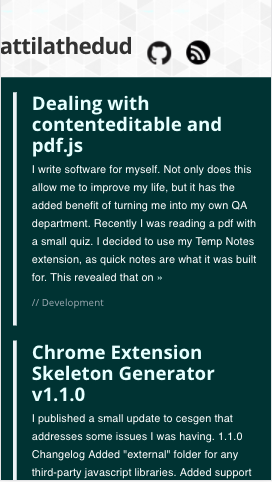
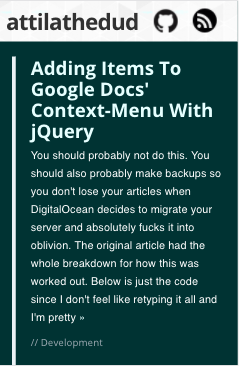
Updating some of the mobile css

diff --git a/theme/assets/css/screen.min.css b/theme/assets/css/screen.min.css
@@ -1,1 +1,1 @@
-article,aside,details,figcaption,figure,footer,header,hr,main,section,summary{display:block}hr,img,legend{border:0}body,html{height:100%;max-height:100%}body,dl,h1,h2,h3,h4,h5,h6,ol,p,ul{text-rendering:geometricPrecision}dl dt,svg:not(:root){overflow:hidden}dl dd,dl dt{margin-bottom:1em}body,li li{margin:0}a:hover,code,tt{color:#111}dl,ol,p,pre,ul{margin:0 0 1.75em}hr,legend,pre code,pre tt,td,th{padding:0}blockquote small,kbd{display:inline-block}pre,table{width:100%}a,table{background-color:transparent}mark,table th{color:#000}pre,textarea{overflow:auto}.inner,.main-header,.site-wrapper,sub,sup{position:relative}html{font-family:sans-serif;-ms-text-size-adjust:100%;-webkit-text-size-adjust:100%}audio,canvas,progress,video{display:inline-block;vertical-align:baseline}audio:not([controls]){display:none;height:0}[hidden],template{display:none}a{color:#e6ffff;transition:color .3s ease}a:active,a:hover{outline:0}abbr[title]{border-bottom:1px dotted}b,optgroup,strong{font-weight:700}dfn{font-style:italic}mark{background:#fdffb6}small{font-size:80%}sub,sup{font-size:75%;line-height:0;vertical-align:baseline}sup{top:-.5em}sub{bottom:-.25em}figure{margin:1em 40px}hr{box-sizing:content-box;height:1px;border-top:#EFEFEF 1px solid;margin:3.2em 0}code,kbd,pre,samp{font-family:monospace,monospace;font-size:1em}button,input,optgroup,select,textarea{color:inherit;font:inherit;margin:0}button,select{text-transform:none}button,html input[type=button],input[type=reset],input[type=submit]{-webkit-appearance:button;cursor:pointer}button[disabled],html input[disabled]{cursor:default}button::-moz-focus-inner,input::-moz-focus-inner{border:0;padding:0}input[type=checkbox],input[type=radio]{box-sizing:border-box;padding:0}blockquote,pre{-moz-box-sizing:border-box}input[type=number]::-webkit-inner-spin-button,input[type=number]::-webkit-outer-spin-button{height:auto}input[type=search]{-webkit-appearance:textfield}input[type=search]::-webkit-search-cancel-button,input[type=search]::-webkit-search-decoration{-webkit-appearance:none}fieldset{border:1px solid silver;margin:0 2px;padding:.35em .625em .75em}@font-face{font-family:casper-icons;src:url(../fonts/casper-icons.eot?v=1);src:url(../fonts/casper-icons.eot?v=1#iefix) format("embedded-opentype"),url(../fonts/casper-icons.woff?v=1) format("woff"),url(../fonts/casper-icons.ttf?v=1) format("truetype"),url(../fonts/casper-icons.svg?v=1#icons) format("svg");font-weight:400;font-style:normal}[class*=" icon-"]:before,[class^=icon-]:before{font-family:casper-icons,"Open Sans",sans-serif;speak:none;font-style:normal;font-weight:400;font-variant:normal;text-transform:none;line-height:1;text-decoration:none!important;-webkit-font-smoothing:antialiased;-moz-osx-font-smoothing:grayscale}blockquote cite,dl dt{font-weight:700}.new-nav li a,.post-meta a,.post-title a,.read-more,button{text-decoration:none}html{font-size:62.5%;-webkit-tap-highlight-color:transparent}body{letter-spacing:.01rem;font-size:1.8rem;line-height:1.75em;color:#fff;-webkit-font-feature-settings:'kern' 1;-moz-font-feature-settings:'kern' 1;-o-font-feature-settings:'kern' 1}#disqus_thread{margin:10px}::-moz-selection{background:#D6EDFF}::selection{background:#D6EDFF}h1,h2,h3,h4,h5,h6{-webkit-font-feature-settings:'dlig' 1,'liga' 1,'lnum' 1,'kern' 1;-moz-font-feature-settings:'dlig' 1,'liga' 1,'lnum' 1,'kern' 1;-o-font-feature-settings:'dlig' 1,'liga' 1,'lnum' 1,'kern' 1;color:#e6ffff;line-height:1.15em;margin:0 0 .4em;font-family:"Open Sans",sans-serif}code,pre,tt{font-family:Inconsolata,monospace,sans-serif;background:#F7FAFB}h1{font-size:5rem;letter-spacing:-2px;text-indent:-3px}h2{font-size:3.6rem;letter-spacing:-1px}h3{font-size:3rem;letter-spacing:-.6px}h4{font-size:2.5rem}h5,h6{font-size:2rem}dl,ol,p,ul{-webkit-font-feature-settings:'liga' 1,'onum' 1,'kern' 1;-moz-font-feature-settings:'liga' 1,'onum' 1,'kern' 1;-o-font-feature-settings:'liga' 1,'onum' 1,'kern' 1}ol,ul{padding-left:3rem}ol ol,ol ul,ul ol,ul ul{margin:0 0 .4em;padding-left:2em}dl dt{float:left;width:180px;clear:left;text-align:right;text-overflow:ellipsis;white-space:nowrap}dl dd{margin-left:200px}li{margin:.4em 0}blockquote{box-sizing:border-box;padding:0 0 0 1.75em;border-left:#FFF .4em solid}blockquote p{margin:.8em 0;font-style:italic}blockquote small{margin:.8em 0 .8em 1.5em;font-size:.9em;color:#CCC}blockquote small:before{content:"\2014 \00A0"}blockquote cite a{font-weight:400}code,tt{padding:1px 3px;font-size:.85em;white-space:pre-wrap;border:1px solid #E3EDF3;border-radius:2px;-webkit-font-feature-settings:"liga" 0;-moz-font-feature-settings:"liga" 0;font-feature-settings:"liga" 0}pre{box-sizing:border-box;border:1px solid #E3EDF3;padding:10px;font-size:.9em;white-space:pre;border-radius:3px}button,input,select,textarea{outline:0;font-family:'Open Sans',sans-serif}pre code,pre tt{font-size:inherit;white-space:pre-wrap;background:0 0;border:none}kbd{margin-bottom:.4em;padding:1px 8px;border:1px solid #CCC;color:#666;text-shadow:#FFF 0 1px 0;font-size:.9em;font-weight:700;background:#F4F4F4;border-radius:4px;box-shadow:0 1px 0 rgba(0,0,0,.2),0 1px 0 0 #fff inset}table{border-collapse:collapse;border-spacing:0;-moz-box-sizing:border-box;box-sizing:border-box;margin:1.75em 0;max-width:100%}table td,table th{padding:8px;line-height:20px;text-align:left;vertical-align:top;border-top:#EFEFEF 1px solid}.copyright,.error-404 h1,.main-header,.pagination,button{text-align:center}table caption+thead tr:first-child td,table caption+thead tr:first-child th,table colgroup+thead tr:first-child td,table colgroup+thead tr:first-child th,table thead:first-child tr:first-child td,table thead:first-child tr:first-child th{border-top:0}table tbody+tbody{border-top:#EFEFEF 2px solid}table table table{background-color:#FFF}table tbody>tr:nth-child(odd)>td,table tbody>tr:nth-child(odd)>th{background-color:#F6F6F6}table.plain tbody>tr:nth-child(odd)>td,table.plain tbody>tr:nth-child(odd)>th{background:0 0}.fluid-width-video-wrapper,iframe{display:block;margin:1.75em 0}.fluid-width-video-wrapper iframe{margin:0}input,select,textarea{width:260px;padding:6px 9px;margin:0 0 5px;font-size:1.6rem;font-weight:100;line-height:1.4em;background:#fff;border:1px solid #e7eef2;border-radius:4px;box-shadow:none;-webkit-appearance:none}textarea{width:100%;max-width:340px;min-width:250px;height:auto;min-height:80px}input[type=text]:focus,input[type=email]:focus,input[type=tel]:focus,input[type=url]:focus,input[type=password]:focus,input[type=date]:focus,input[type=month]:focus,input[type=week]:focus,input[type=time]:focus,input[type=datetime]:focus,input[type=datetime-local]:focus,input[type=number]:focus,input[type=search]:focus,textarea:focus{border:1px solid #bbc7cc;background:#fff;outline:0}select{width:270px;height:30px;line-height:30px}button{overflow:visible;min-height:35px;width:auto;display:inline-block;padding:.1rem 1.5rem;cursor:pointer;color:#fff;font-size:11px;line-height:13px;font-weight:300;letter-spacing:1px;text-transform:uppercase;text-shadow:none;border-radius:.3rem;border:.1em solid rgba(0,0,0,.05);background:#5ba4e5}.main-header,.page-template .content,.post-template .content{overflow:hidden}.icon-popout{width:32px;height:32px;float:left;margin-top:2rem;margin-left:2rem}.github-popout{background:url(../imgs/github.png)}.rss-popout{background:url(../imgs/tdd.png)}.icon-popout:hover{box-shadow:0 5px 5px 0 rgba(0,0,0,.16),0 2px 10px 0 rgba(0,0,0,.12);border-radius:50%!important}.clearfix:after,.clearfix:before{content:" ";display:table}.clearfix:after{clear:both}.clearfix{zoom:1}.hidden{text-indent:-9999px;visibility:hidden;display:none}.inner{width:95%;margin:0 auto}.vertical{display:table-cell;vertical-align:middle}.site-wrapper{z-index:10;min-height:100%;background:#033;-webkit-transition:-webkit-transform .5s ease;transition:transform .5s ease}.main-header{display:table;width:100%;margin-bottom:5rem;background:center center no-repeat #222;background-size:cover}.new-nav ul{list-style:none;padding-top:2.5rem!important;font-size:larger;float:right;padding-left:6rem;margin:0!important}.new-nav li{display:inline}.new-nav li a{color:rgba(0,0,0,.8);padding:20px;font-family:'Share Tech Mono',monospace}.page-title,.pagination,.post-meta,.site-footer{font-family:"Open Sans",sans-serif}.new-nav li a:hover{box-shadow:0 -1px 10px #dcdcdc}.home-template .main-header:after{display:block;content:" ";width:150px;height:130px;border-radius:100%;position:absolute;bottom:0;left:50%;margin-left:-75px;background:radial-gradient(ellipse at center,rgba(0,0,0,.15) 0,rgba(0,0,0,0) 70%,rgba(0,0,0,0) 100%)}.pagination,.post,.post-content img{position:relative}.no-cover.main-header:after,.paged .main-header:after{display:none}.page-title{margin:10px 0;float:left;font-size:5rem;letter-spacing:-1px;font-weight:700;color:#fff}.no-cover.main-header{background:url(../imgs/triangular.png)}.no-cover .page-title{color:rgba(0,0,0,.8)}.post{width:95%;margin:6rem auto;padding-left:2rem;border-left:#EBF2F6 5px solid;word-wrap:break-word}body:not(.page-template) .post-title,body:not(.post-template) .post-title{font-size:3.6rem}.post-excerpt p{margin:0;font-size:.9em;line-height:1.7em}.post-meta{display:block;margin:1.75rem 0 0;font-size:1.5rem;line-height:2.2rem;color:#9EABB3}.post-meta a{color:#9EABB3}.post-meta a:hover{text-decoration:underline}.footnotes p a:last-child,.site-footer a{text-decoration:none}.post-date{display:inline-block;text-transform:uppercase;font-size:1.3rem;white-space:nowrap}.end-content-hr{width:95%;margin:6rem auto}.page-template .post-header,.post-template .post-header{margin-bottom:3.4rem}.page-template .post-title,.post-template .post-title{margin-bottom:0}.page-template .post-meta,.post-template .post-meta{margin:0}.page-template .post-date,.post-template .post-date{padding:0;margin:0;border:none}.page-template .post,.post-template .post{margin-top:0;border-bottom:none;padding-bottom:0}.page-template .post:after,.post-template .post:after{display:none}.post-content img{display:block;max-width:126%;height:auto;padding:.6em 0;left:50%;-webkit-transform:translateX(-50%);-ms-transform:translateX(-50%);transform:translateX(-50%)}.footnotes{font-style:italic;font-size:1.3rem;line-height:1.6em}.footnotes li{margin:.6rem 0}.footnotes p{margin:0}.gist table{margin:0;font-size:1.4rem;text-rendering:auto}.gist td{line-height:1.4}.gist .line-number{min-width:25px}.content .embedPastebin{margin-bottom:1.75em}.pagination{width:95%;margin:4rem auto;font-size:1.3rem;color:#9EABB3}.pagination a{color:#9EABB3;transition:all .2s ease}.newer-posts,.older-posts{position:absolute;display:inline-block;padding:0 15px;border:1px solid #bfc8cd;text-decoration:none;border-radius:4px;transition:border .3s ease}.older-posts{right:0}.page-number{display:inline-block;padding:2px 0;min-width:100px}.newer-posts{left:0}.newer-posts:hover,.older-posts:hover{color:#889093;border-color:#98a0a4}.extra-pagination{display:none;border-bottom:#EBF2F6 1px solid}.copyright,.paged .extra-pagination{display:block}.extra-pagination:after{display:block;content:"";width:7px;height:7px;border:1px solid #E7EEF2;position:absolute;bottom:-5px;left:50%;margin-left:-5px;background:#FFF;border-radius:100%;box-shadow:#FFF 0 0 0 5px}.extra-pagination .pagination{width:auto}.paged .main-header{max-height:30vh}.site-footer{position:relative;margin:8rem 0 0;padding:1rem 15px;font-size:1rem;line-height:1.75em;color:#BBC7CC}.site-footer a{color:#BBC7CC;font-weight:700}.site-footer a:hover{border-bottom:#bbc7cc 1px solid}.copyright{width:45%;margin:auto}@media only screen and (max-width:1100px){.new-nav{display:none}}@media only screen and (max-width:900px){blockquote{margin-left:0}.main-header{-webkit-box-sizing:border-box;-moz-box-sizing:border-box;box-sizing:border-box;padding:4% 0}.home-template .main-header:after{display:none}.paged .main-header{min-height:180px;padding:10% 0}.page-title{font-size:4rem;letter-spacing:-1px}.post{font-size:.95em}body:not(.page-template) .post-title,body:not(.post-template) .post-title{font-size:3.2rem}hr{margin:2.4em 0}ol,ul{padding-left:2em}h1{font-size:4.5rem;text-indent:-2px}h2{font-size:3.6rem}h3{font-size:3.1rem}h4{font-size:2.5rem}h5{font-size:2.2rem}h6{font-size:1.8rem}}@media only screen and (max-width:500px){.main-header{margin-bottom:15px}.paged .main-header{max-height:20vh;min-height:160px;padding:4% 0}.inner,.pagination{width:auto;margin:2rem auto}.post{width:auto;padding-bottom:2rem;line-height:1.65em;margin:2rem 16px}.post-date{display:none}.page-template .post-header,.post-template .post-header{margin-bottom:2rem}.page-template .post-date,.post-template .post-date{display:inline-block}hr{margin:1.75em 0}dl,ol,p,ul{font-size:.95em;margin:0 0 2.5rem}.page-title{font-size:3rem}.post-excerpt p{font-size:.85em}h1,h2,h3,h4,h5,h6{margin:0 0 .3em}h1{font-size:2.8rem;letter-spacing:-1px}h2{font-size:2.4rem;letter-spacing:0}h3{font-size:2.1rem}h4{font-size:1.9rem}h5,h6{font-size:1.8rem}body:not(.page-template) .post-title,body:not(.post-template) .post-title{font-size:2.5rem}.page-template .site-footer,.post-template .site-footer{margin-top:0}.post-content img{padding:0;width:calc(100% + 32px);min-width:0;max-width:112%}.post-meta{font-size:1.3rem;margin-top:1rem}.newer-posts,.older-posts{position:static;margin:10px 0}.page-number{display:block}.site-footer{margin-top:3rem}}
+article,aside,details,figcaption,figure,footer,header,hr,main,section,summary{display:block}hr,img,legend{border:0}body,html{height:100%;max-height:100%}body,dl,h1,h2,h3,h4,h5,h6,ol,p,ul{text-rendering:geometricPrecision}dl dt,svg:not(:root){overflow:hidden}dl dd,dl dt{margin-bottom:1em}body,li li{margin:0}a:hover,code,tt{color:#111}dl,ol,p,pre,ul{margin:0 0 1.75em}hr,legend,pre code,pre tt,td,th{padding:0}blockquote small,kbd{display:inline-block}pre,table{width:100%}a,table{background-color:transparent}mark,table th{color:#000}pre,textarea{overflow:auto}.inner,.main-header,.site-wrapper,sub,sup{position:relative}html{font-family:sans-serif;-ms-text-size-adjust:100%;-webkit-text-size-adjust:100%}audio,canvas,progress,video{display:inline-block;vertical-align:baseline}audio:not([controls]){display:none;height:0}[hidden],template{display:none}a{color:#e6ffff;transition:color .3s ease}a:active,a:hover{outline:0}abbr[title]{border-bottom:1px dotted}b,optgroup,strong{font-weight:700}dfn{font-style:italic}mark{background:#fdffb6}small{font-size:80%}sub,sup{font-size:75%;line-height:0;vertical-align:baseline}sup{top:-.5em}sub{bottom:-.25em}figure{margin:1em 40px}hr{box-sizing:content-box;height:1px;border-top:#EFEFEF 1px solid;margin:3.2em 0}code,kbd,pre,samp{font-family:monospace,monospace;font-size:1em}button,input,optgroup,select,textarea{color:inherit;font:inherit;margin:0}button,select{text-transform:none}button,html input[type=button],input[type=reset],input[type=submit]{-webkit-appearance:button;cursor:pointer}button[disabled],html input[disabled]{cursor:default}button::-moz-focus-inner,input::-moz-focus-inner{border:0;padding:0}input[type=checkbox],input[type=radio]{box-sizing:border-box;padding:0}blockquote,pre{-moz-box-sizing:border-box}input[type=number]::-webkit-inner-spin-button,input[type=number]::-webkit-outer-spin-button{height:auto}input[type=search]{-webkit-appearance:textfield}input[type=search]::-webkit-search-cancel-button,input[type=search]::-webkit-search-decoration{-webkit-appearance:none}fieldset{border:1px solid silver;margin:0 2px;padding:.35em .625em .75em}@font-face{font-family:casper-icons;src:url(../fonts/casper-icons.eot?v=1);src:url(../fonts/casper-icons.eot?v=1#iefix) format("embedded-opentype"),url(../fonts/casper-icons.woff?v=1) format("woff"),url(../fonts/casper-icons.ttf?v=1) format("truetype"),url(../fonts/casper-icons.svg?v=1#icons) format("svg");font-weight:400;font-style:normal}[class*=" icon-"]:before,[class^=icon-]:before{font-family:casper-icons,"Open Sans",sans-serif;speak:none;font-style:normal;font-weight:400;font-variant:normal;text-transform:none;line-height:1;text-decoration:none!important;-webkit-font-smoothing:antialiased;-moz-osx-font-smoothing:grayscale}blockquote cite,dl dt{font-weight:700}.new-nav li a,.post-meta a,.post-title a,.read-more,button{text-decoration:none}html{font-size:62.5%;-webkit-tap-highlight-color:transparent}body{letter-spacing:.01rem;font-size:1.8rem;line-height:1.75em;color:#fff;-webkit-font-feature-settings:'kern' 1;-moz-font-feature-settings:'kern' 1;-o-font-feature-settings:'kern' 1}#disqus_thread{margin:10px}::-moz-selection{background:#D6EDFF}::selection{background:#D6EDFF}h1,h2,h3,h4,h5,h6{-webkit-font-feature-settings:'dlig' 1,'liga' 1,'lnum' 1,'kern' 1;-moz-font-feature-settings:'dlig' 1,'liga' 1,'lnum' 1,'kern' 1;-o-font-feature-settings:'dlig' 1,'liga' 1,'lnum' 1,'kern' 1;color:#e6ffff;line-height:1.15em;margin:0 0 .4em;font-family:"Open Sans",sans-serif}code,pre,tt{font-family:Inconsolata,monospace,sans-serif;background:#F7FAFB}h1{font-size:5rem;letter-spacing:-2px;text-indent:-3px}h2{font-size:3.6rem;letter-spacing:-1px}h3{font-size:3rem;letter-spacing:-.6px}h4{font-size:2.5rem}h5,h6{font-size:2rem}dl,ol,p,ul{-webkit-font-feature-settings:'liga' 1,'onum' 1,'kern' 1;-moz-font-feature-settings:'liga' 1,'onum' 1,'kern' 1;-o-font-feature-settings:'liga' 1,'onum' 1,'kern' 1}ol,ul{padding-left:3rem}ol ol,ol ul,ul ol,ul ul{margin:0 0 .4em;padding-left:2em}dl dt{float:left;width:180px;clear:left;text-align:right;text-overflow:ellipsis;white-space:nowrap}dl dd{margin-left:200px}li{margin:.4em 0}blockquote{box-sizing:border-box;padding:0 0 0 1.75em;border-left:#FFF .4em solid}blockquote p{margin:.8em 0;font-style:italic}blockquote small{margin:.8em 0 .8em 1.5em;font-size:.9em;color:#CCC}blockquote small:before{content:"\2014 \00A0"}blockquote cite a{font-weight:400}code,tt{padding:1px 3px;font-size:.85em;white-space:pre-wrap;border:1px solid #E3EDF3;border-radius:2px;-webkit-font-feature-settings:"liga" 0;-moz-font-feature-settings:"liga" 0;font-feature-settings:"liga" 0}pre{box-sizing:border-box;border:1px solid #E3EDF3;padding:10px;font-size:.9em;white-space:pre;border-radius:3px}button,input,select,textarea{outline:0;font-family:'Open Sans',sans-serif}pre code,pre tt{font-size:inherit;white-space:pre-wrap;background:0 0;border:none}kbd{margin-bottom:.4em;padding:1px 8px;border:1px solid #CCC;color:#666;text-shadow:#FFF 0 1px 0;font-size:.9em;font-weight:700;background:#F4F4F4;border-radius:4px;box-shadow:0 1px 0 rgba(0,0,0,.2),0 1px 0 0 #fff inset}table{border-collapse:collapse;border-spacing:0;-moz-box-sizing:border-box;box-sizing:border-box;margin:1.75em 0;max-width:100%}table td,table th{padding:8px;line-height:20px;text-align:left;vertical-align:top;border-top:#EFEFEF 1px solid}.copyright,.error-404 h1,.main-header,.pagination,button{text-align:center}table caption+thead tr:first-child td,table caption+thead tr:first-child th,table colgroup+thead tr:first-child td,table colgroup+thead tr:first-child th,table thead:first-child tr:first-child td,table thead:first-child tr:first-child th{border-top:0}table tbody+tbody{border-top:#EFEFEF 2px solid}table table table{background-color:#FFF}table tbody>tr:nth-child(odd)>td,table tbody>tr:nth-child(odd)>th{background-color:#F6F6F6}table.plain tbody>tr:nth-child(odd)>td,table.plain tbody>tr:nth-child(odd)>th{background:0 0}.fluid-width-video-wrapper,iframe{display:block;margin:1.75em 0}.fluid-width-video-wrapper iframe{margin:0}input,select,textarea{width:260px;padding:6px 9px;margin:0 0 5px;font-size:1.6rem;font-weight:100;line-height:1.4em;background:#fff;border:1px solid #e7eef2;border-radius:4px;box-shadow:none;-webkit-appearance:none}textarea{width:100%;max-width:340px;min-width:250px;height:auto;min-height:80px}input[type=text]:focus,input[type=email]:focus,input[type=tel]:focus,input[type=url]:focus,input[type=password]:focus,input[type=date]:focus,input[type=month]:focus,input[type=week]:focus,input[type=time]:focus,input[type=datetime]:focus,input[type=datetime-local]:focus,input[type=number]:focus,input[type=search]:focus,textarea:focus{border:1px solid #bbc7cc;background:#fff;outline:0}select{width:270px;height:30px;line-height:30px}button{overflow:visible;min-height:35px;width:auto;display:inline-block;padding:.1rem 1.5rem;cursor:pointer;color:#fff;font-size:11px;line-height:13px;font-weight:300;letter-spacing:1px;text-transform:uppercase;text-shadow:none;border-radius:.3rem;border:.1em solid rgba(0,0,0,.05);background:#5ba4e5}.main-header,.page-template .content,.post-template .content{overflow:hidden}.icon-popout{width:32px;height:32px;float:left;margin-top:2rem;margin-left:2rem}.github-popout{background:url(../imgs/github.png)}.rss-popout{background:url(../imgs/tdd.png)}.icon-popout:hover{box-shadow:0 5px 5px 0 rgba(0,0,0,.16),0 2px 10px 0 rgba(0,0,0,.12);border-radius:50%!important}.clearfix:after,.clearfix:before{content:" ";display:table}.clearfix:after{clear:both}.clearfix{zoom:1}.hidden{text-indent:-9999px;visibility:hidden;display:none}.inner{width:95%;margin:0 auto}.vertical{display:table-cell;vertical-align:middle}.site-wrapper{z-index:10;min-height:100%;background:#033;-webkit-transition:-webkit-transform .5s ease;transition:transform .5s ease}.main-header{display:table;width:100%;margin-bottom:5rem;background:center center no-repeat #222;background-size:cover}.new-nav ul{list-style:none;padding-top:2.5rem!important;font-size:larger;float:right;padding-left:6rem;margin:0!important}.new-nav li{display:inline}.new-nav li a{color:rgba(0,0,0,.8);padding:20px;font-family:'Share Tech Mono',monospace}.page-title,.pagination,.post-meta,.site-footer{font-family:"Open Sans",sans-serif}.new-nav li a:hover{box-shadow:0 -1px 10px #dcdcdc}.home-template .main-header:after{display:block;content:" ";width:150px;height:130px;border-radius:100%;position:absolute;bottom:0;left:50%;margin-left:-75px;background:radial-gradient(ellipse at center,rgba(0,0,0,.15) 0,rgba(0,0,0,0) 70%,rgba(0,0,0,0) 100%)}.pagination,.post,.post-content img{position:relative}.no-cover.main-header:after,.paged .main-header:after{display:none}.page-title{margin:10px 0;float:left;font-size:5rem;letter-spacing:-1px;font-weight:700;color:#fff}.no-cover.main-header{background:url(../imgs/triangular.png)}.no-cover .page-title{color:rgba(0,0,0,.8)}.post{width:95%;margin:6rem auto;padding-left:2rem;border-left:#EBF2F6 5px solid;word-wrap:break-word}body:not(.page-template) .post-title,body:not(.post-template) .post-title{font-size:3.6rem}.post-excerpt p{margin:0;font-size:.9em;line-height:1.7em}.post-meta{display:block;margin:1.75rem 0 0;font-size:1.5rem;line-height:2.2rem;color:#9EABB3}.post-meta a{color:#9EABB3}.post-meta a:hover{text-decoration:underline}.footnotes p a:last-child,.site-footer a{text-decoration:none}.post-date{display:inline-block;text-transform:uppercase;font-size:1.3rem;white-space:nowrap}.end-content-hr{width:95%;margin:6rem auto}.page-template .post-header,.post-template .post-header{margin-bottom:3.4rem}.page-template .post-title,.post-template .post-title{margin-bottom:0}.page-template .post-meta,.post-template .post-meta{margin:0}.page-template .post-date,.post-template .post-date{padding:0;margin:0;border:none}.page-template .post,.post-template .post{margin-top:0;border-bottom:none;padding-bottom:0}.page-template .post:after,.post-template .post:after{display:none}.post-content img{display:block;max-width:126%;height:auto;padding:.6em 0;left:50%;-webkit-transform:translateX(-50%);-ms-transform:translateX(-50%);transform:translateX(-50%)}.footnotes{font-style:italic;font-size:1.3rem;line-height:1.6em}.footnotes li{margin:.6rem 0}.footnotes p{margin:0}.gist table{margin:0;font-size:1.4rem;text-rendering:auto}.gist td{line-height:1.4}.gist .line-number{min-width:25px}.content .embedPastebin{margin-bottom:1.75em}.pagination{width:95%;margin:4rem auto;font-size:1.3rem;color:#9EABB3}.pagination a{color:#9EABB3;transition:all .2s ease}.newer-posts,.older-posts{position:absolute;display:inline-block;padding:0 15px;border:1px solid #bfc8cd;text-decoration:none;border-radius:4px;transition:border .3s ease}.older-posts{right:0}.page-number{display:inline-block;padding:2px 0;min-width:100px}.newer-posts{left:0}.newer-posts:hover,.older-posts:hover{color:#889093;border-color:#98a0a4}.extra-pagination{display:none;border-bottom:#EBF2F6 1px solid}.copyright,.paged .extra-pagination{display:block}.extra-pagination:after{display:block;content:"";width:7px;height:7px;border:1px solid #E7EEF2;position:absolute;bottom:-5px;left:50%;margin-left:-5px;background:#FFF;border-radius:100%;box-shadow:#FFF 0 0 0 5px}.extra-pagination .pagination{width:auto}.paged .main-header{max-height:30vh}.site-footer{position:relative;margin:8rem 0 0;padding:1rem 15px;font-size:1rem;line-height:1.75em;color:#BBC7CC}.site-footer a{color:#BBC7CC;font-weight:700}.site-footer a:hover{border-bottom:#bbc7cc 1px solid}.copyright{width:45%;margin:auto}@media only screen and (max-width:1060px){.new-nav{font-size:medium}}@media only screen and (max-width:960px){.new-nav{font-size:small}}@media only screen and (max-width:900px){.home-template .main-header:after,.new-nav{display:none}blockquote{margin-left:0}.main-header{-webkit-box-sizing:border-box;-moz-box-sizing:border-box;box-sizing:border-box}.paged .main-header{min-height:180px;padding:10% 0}.page-title{font-size:4rem;letter-spacing:-1px}.post{font-size:.95em}body:not(.page-template) .post-title,body:not(.post-template) .post-title{font-size:3.2rem}hr{margin:2.4em 0}ol,ul{padding-left:2em}h1{font-size:4.5rem;text-indent:-2px}h2{font-size:3.6rem}h3{font-size:3.1rem}h4{font-size:2.5rem}h5{font-size:2.2rem}h6{font-size:1.8rem}}@media only screen and (max-width:500px){.inner,.pagination,.post{width:auto}.main-header{margin-bottom:15px}.paged .main-header{max-height:20vh;min-height:160px}.icon-popout{margin-top:1rem}.post{padding-bottom:2rem;line-height:1.65em;margin:2rem 16px}.post-date{display:none}.page-template .post-header,.post-template .post-header{margin-bottom:2rem}.page-template .post-date,.post-template .post-date{display:inline-block}hr{margin:1.75em 0}dl,ol,p,ul{font-size:.95em;margin:0 0 2.5rem}.page-title{font-size:3rem;margin-left:10px}.post-excerpt p{font-size:.85em}h1,h2,h3,h4,h5,h6{margin:0 0 .3em}h1{font-size:2.8rem;letter-spacing:-1px}h2{font-size:2.4rem;letter-spacing:0}h3{font-size:2.1rem}h4{font-size:1.9rem}h5,h6{font-size:1.8rem}body:not(.page-template) .post-title,body:not(.post-template) .post-title{font-size:2.5rem}.page-template .site-footer,.post-template .site-footer{margin-top:0}.post-content img{padding:0;width:calc(100% + 32px);min-width:0;max-width:112%}.post-meta{font-size:1.3rem;margin-top:1rem}.newer-posts,.older-posts{position:static;margin:10px 0}.page-number{display:block}.site-footer{margin-top:3rem}}

diff --git a/theme/assets/css/screen.css b/theme/assets/css/screen.css
@@ -10,14 +10,10 @@
     3.  Utilities
     4.  General
     5.  Single Post
-    6.  Author Profile
-    7.  Read More
-    8.  Third Party Elements
-    9.  Pagination
-    11. Footer
-    12. Media Queries (Tablet)
-    13. Media Queries (Mobile)
-    14. Animations
+    6.  Third Party Elements
+    7.  Pagination
+    8.  Footer
+    9.  Media Queries
 
 */
 
@@ -771,7 +767,7 @@ body:not(.page-template) .post-title {
 }
 
 /* ==========================================================================
-   8. Third Party Elements - Embeds from other services
+   6. Third Party Elements - Embeds from other services
    ========================================================================== */
 
 /* Github */
@@ -794,7 +790,7 @@ body:not(.page-template) .post-title {
 
 
 /* ==========================================================================
-   9. Pagination - Tools to let you flick between pages
+   7. Pagination - Tools to let you flick between pages
    ========================================================================== */
 
 /* The main wrapper for our pagination links */
@@ -880,7 +876,7 @@ body:not(.page-template) .post-title {
 
 
 /* ==========================================================================
-   11. Footer - The bottom of every page
+   8. Footer - The bottom of every page
    ========================================================================== */
 
 .site-footer {
@@ -910,18 +906,35 @@ body:not(.page-template) .post-title {
     text-align: center;
 }
 
+/* ==========================================================================
+   9. Media Queries - Smaller than 1060px
+   ========================================================================== */
 
-@media only screen and (max-width:1100px) {
+@media only screen and (max-width:1060px) {
     .new-nav {
-        display: none;
+        font-size: medium;
     }
 }
 
 /* ==========================================================================
-   12. Media Queries - Smaller than 900px
+   9. Media Queries - Smaller than 960px
+   ========================================================================== */
+
+@media only screen and (max-width:960px) {
+    .new-nav {
+        font-size: small;
+    }
+}
+
+/* ==========================================================================
+   9. Media Queries - Smaller than 900px
    ========================================================================== */
 
 @media only screen and (max-width: 900px) {
+
+    .new-nav {
+        display: none;
+    }
 
     blockquote {
         margin-left: 0;
@@ -931,7 +944,6 @@ body:not(.page-template) .post-title {
         -webkit-box-sizing: border-box;
         -moz-box-sizing: border-box;
         box-sizing: border-box;
-        padding: 4% 0;
     }
 
     .home-template .main-header:after { display: none; }
@@ -991,7 +1003,7 @@ body:not(.page-template) .post-title {
 
 
 /* ==========================================================================
-   13. Media Queries - Smaller than 500px
+   9. Media Queries - Smaller than 500px
    ========================================================================== */
 
 @media only screen and (max-width: 500px) {
@@ -1003,13 +1015,15 @@ body:not(.page-template) .post-title {
     .paged .main-header {
         max-height: 20vh;
         min-height: 160px;
-        padding: 4% 0;
     }
 
     .inner,
     .pagination {
         width: auto;
-        margin: 2rem auto;
+    }
+
+    .icon-popout {
+        margin-top: 1rem;
     }
 
     .post {
@@ -1047,6 +1061,7 @@ body:not(.page-template) .post-title {
 
     .page-title {
         font-size: 3rem;
+        margin-left: 10px;
     }
 
     .post-excerpt p {

diff --git a/README.md b/README.md
@@ -1,2 +1,4 @@
 # attilathedud.me
-Theme for my personal blog
+A minimal dark theme for my blog. Includes prism.js for syntax highlighting.
+
+![Demo Shot](/promos/promo_1.png?raw=true "Demo Shot")
